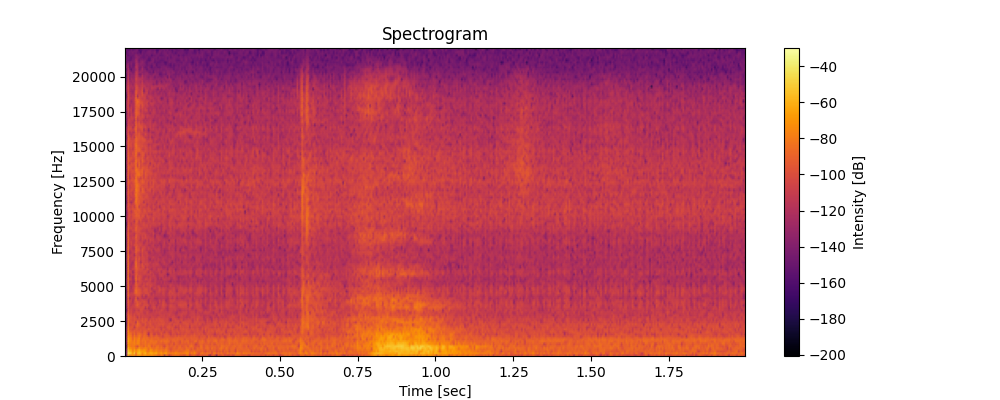
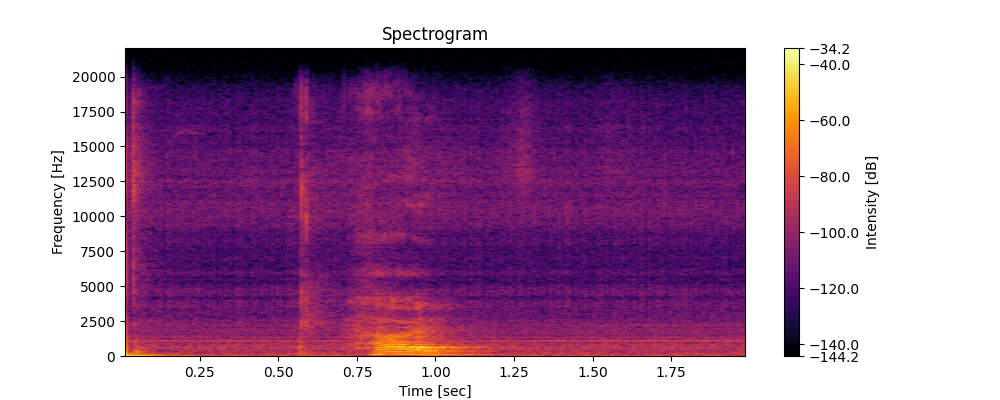
Adjust spectrogram colorbar ticks

diff --git a/utils.py b/utils.py
@@ -54,7 +54,7 @@ def plot_spectrogram(audio_file_path, duration, timestamp, logger, sr):
     Sxx_log = 10 * np.log10(Sxx)  # Convert to decibel scale
 
     # Adjust vmin and vmax for better contrast
-    vmin = Sxx_log.max() - 110  # You might need to adjust this based on your data
+    vmin = Sxx_log.max() - 90  # tweak this for gradient
     vmax = Sxx_log.max()
 
     # Plot the spectrogram
@@ -63,17 +63,12 @@ def plot_spectrogram(audio_file_path, duration, timestamp, logger, sr):
     plt.xlabel('Time [sec]')
     plt.title('Spectrogram')
 
-    # Create the color bar and set the ticks
-    cbar = plt.colorbar(pcm, label='Intensity [dB]')
-    existing_ticks = cbar.get_ticks()
+    # Set colorbar ticks
+    tick_interval = 10  # Define the interval of ticks here
+    ticks = np.arange(vmin, vmax + tick_interval, tick_interval)
 
-    # Remove the first and last auto-generated ticks
-    if len(existing_ticks) > 2:
-        existing_ticks = existing_ticks[1:-1]
-
-    # Add vmin and vmax to the existing ticks
-    new_ticks = np.concatenate(([vmin], existing_ticks, [vmax]))
-    cbar.set_ticks(new_ticks)
+    # Create the colorbar with specified ticks
+    cbar = plt.colorbar(pcm, label='Intensity [dB]', ticks=ticks)
 
     plt.savefig(f'{timestamp}/spectrogram_{timestamp}.png')  # Save the plot
     logger.info("Spectrogram saved")
